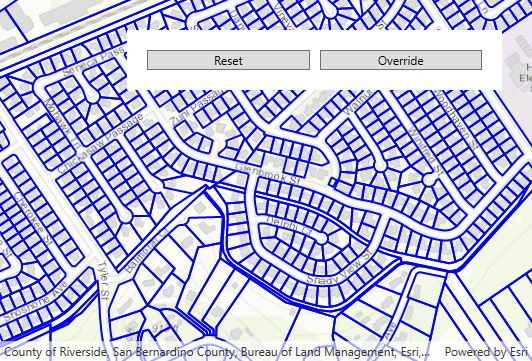
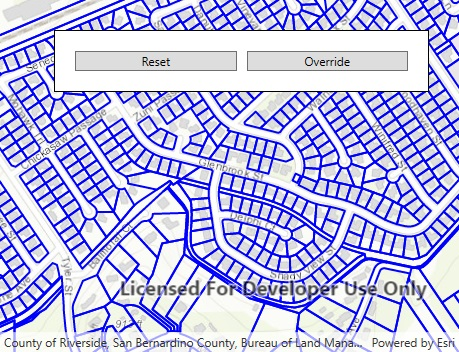
Chagne feature layer renderer
Improvements:

* Set border thickness so that it would render as expected.

diff --git a/src/WPF/ArcGISRuntime.WPF.Viewer/Samples/Layers/ChangeFeatureLayerRenderer/ChangeFeatureLayerRenderer.xaml b/src/WPF/ArcGISRuntime.WPF.Viewer/Samples/Layers/ChangeFeatureLayerRenderer/ChangeFeatureLayerRenderer.xaml
@@ -8,7 +8,7 @@
              d:DesignHeight="300" d:DesignWidth="300">
     <Grid>
         <esri:MapView x:Name="MyMapView"/>
-        <Border BorderBrush="Black" Background="White"
+        <Border BorderBrush="Black" BorderThickness="1" Background="White"
                 HorizontalAlignment="Right" VerticalAlignment="Top"
                 Margin="30" Padding="20" Width="375">
             <Grid>
